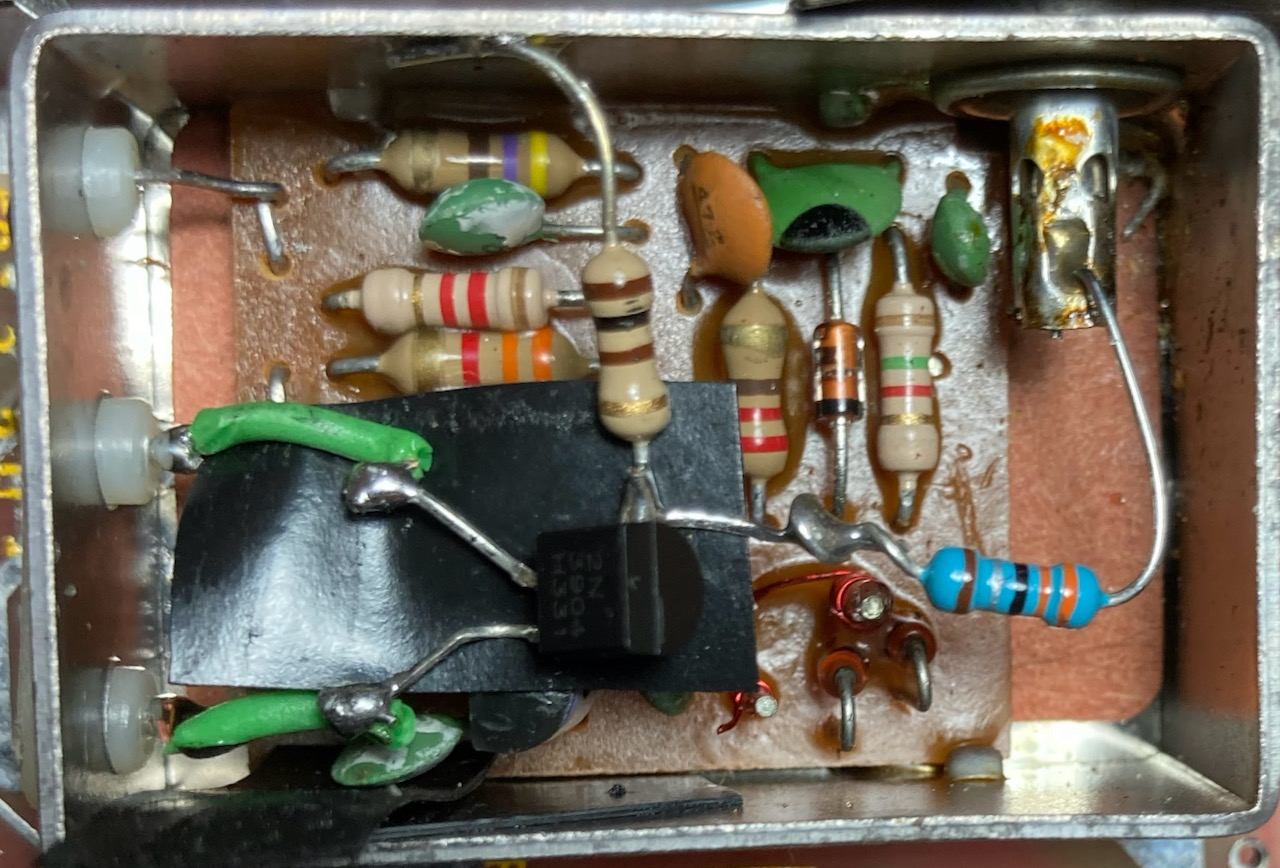
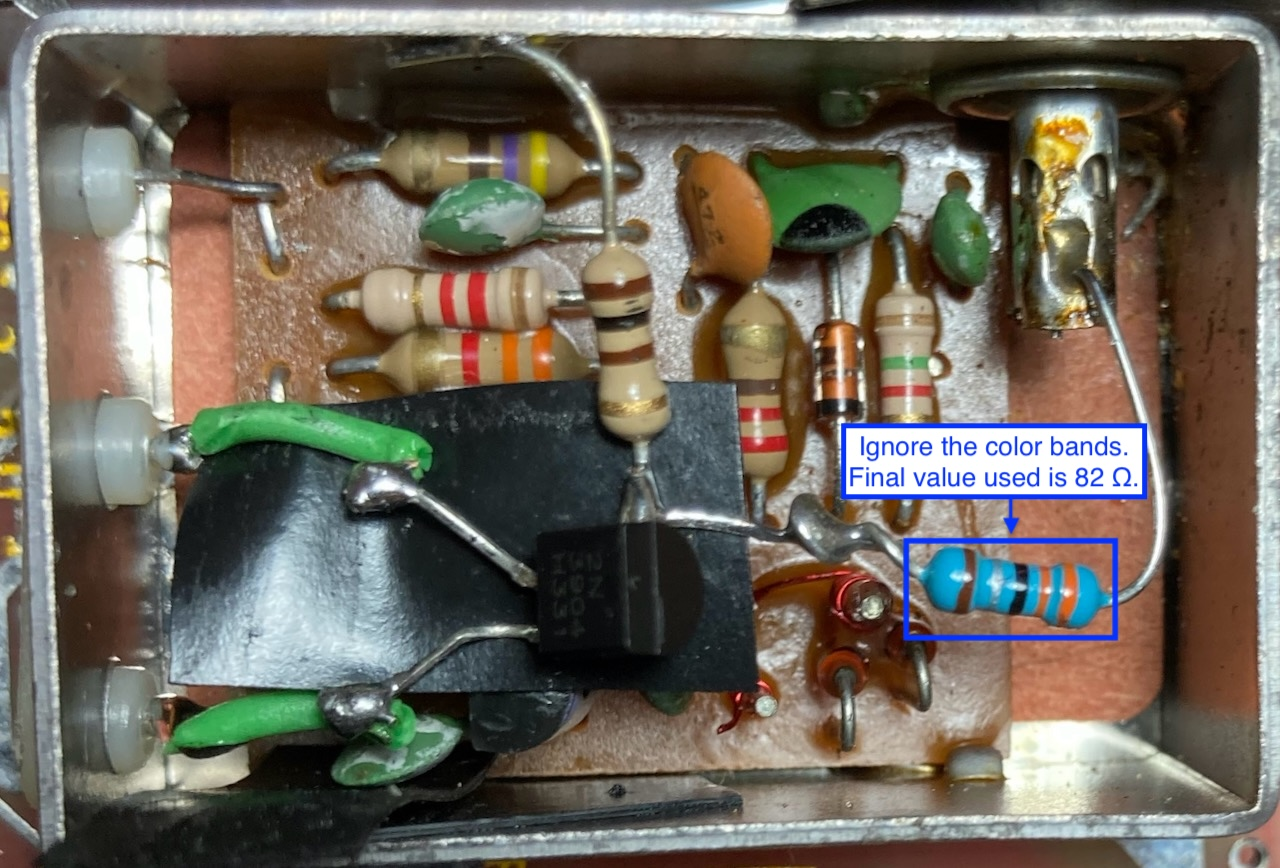
Video circuit and other updates

Changed region(s): [[0.6562, 0.4666, 0.9062, 0.7465]]

diff --git a/README.md b/README.md
@@ -2,7 +2,7 @@
 
 [![Check Markdown Links](https://github.com/Andy4495/timex-sinclair-1000/actions/workflows/check-links.yml/badge.svg)](https://github.com/Andy4495/timex-sinclair-1000/actions/workflows/check-links.yml)
 
-Notes on restoring and using a vintage Timex Sinclair 1000 / Sinclair ZX81 personal computer.
+Restoring and using a vintage Timex Sinclair 1000 personal computer. This should also generally apply to a Sinclair ZX81.
 
 ## Modifications
 
@@ -10,28 +10,42 @@ Notes on restoring and using a vintage Timex Sinclair 1000 / Sinclair ZX81 perso
 
 The keyboard cable to the PCB through connectors KB1 and KB2 had become brittle and partially disintegrated, rendering the keyboard unusable. This is a common problem with the Sinclair membrane keyboards, so much so that replacements are readily available on [eBay][4].
 
-All the remnants from the old cable need to be removed from connectors KB1 and KB2 before installing the new keyboard. Using tweezers, picks, and a magnifying lens helps to get all the bits out.
+All the remnants from the old cable need to be removed from connectors KB1 and KB2 before installing the new keyboard. Tweezers, picks, and a magnifying lens are helpful tools to get all the bits out.
 
 ### Video Output
 
-I modified the RF output video signal so that it bypasses the RF Modulator and instead outputs a composite video signal. I used the ["single transistor, 2 resistor"][3] design. The composite video signal produced is not fully compliant, but is good enough to work on my TV with a composite video input. However, my cheap composite-to-HDMI converter box has difficulty with consistently syncing to the signal.
+I modified the RF output video signal so that it bypasses the RF Modulator and instead outputs a composite video signal. I used the ["single transistor, 2 resistor"][3] design. After some experimentation, I settled on a value of 82 Ohms for the emitter-video-out resistor. The composite video signal produced with these changes works on my TV with a composite video input, a cheap [video-to-VGA][vga] converter, and an [RGBtoHDMI with Analog][rgb2hdmi] board.
 
-Circuit modifications:
+[vga]: [https://www.amazon.com/dp/B075N462CL]
+[rgb2hdmi]: https://retrohackshack.com/product/rgbtohdmi/
 
-- Although I left it in place, I think it should be possible to remove the existing circuit board inside the RF shield can
-- Outside of the shield can, unsolder the middle wire from the "USA" via and move it to the "2" via (this is the video output signal from the ULA chip) ([photo][26])
-- Inside the shield can, cut the 5V and video signal wires from the circuit board inside the can (leave enough wire to solder the transistor legs)
-- Remove the channel select switch (near the regulator)
+#### Circuit modifications
+
+- Remove the channel select switch (near the voltage regulator)
 - Solder a jumper between the two switch vias nearest the regulator to route 5V to the RF shield can (see [photo][27])
+- Outside of the RF shield can, unsolder the middle wire from the "USA" via and move it to the "2" via (this is the video output signal from the ULA chip) ([photo][26])
+- Remove the top metal piece of the RF shield can
+- Inside the shield can, cut the 5V and video signal wires from the circuit board inside the can, leaving enough wire to solder the transistor legs
 - Cut the RF signal wire connected to the RCA jack (see [photo][25])
 - Disconnect the two parts behind the RCA socket (see [photo][28])
 - Install the transistor/resistor modification. I used a general-purpose [2N3904 transistor][36]:
   - Collector pin to 5V wire coming into shield can
   - Solder two resistors to the emitter pin
-    - 18 Ohm resistor between the emitter and the RCA output connector
+    - 82 Ohm resistor between the emitter and the RCA output connector
     - 100 Ohm resistor between the emitter and to ground (RF shield can)
   - Base pin to video input wire
 - Post-rework [photo][29]; note the electrical tape under the transistor and on the side of the shield can to insulate against possible shorts
+
+#### Video Quality
+
+With the above modifications and resistor values, the video output signal measured about 1.0 V max with the video-to-VGA converter (75 Ohm load) and 1.5 V max with the RGBtoHDMI (500+ Ohm load).
+
+The [RGBtoHDMI][41] gave a very sharp image with the `Sinclair/ZX81 Composite` profile, after running `Auto Calibrate Video Sampling` and then manually updating two `Sampling Menu` settings:
+
+- `DAC A Y Hi`: 058 (0.75 V)
+  - Values from 0.66 to 0.84 V were stable, so I chose the middle
+- `DAC F Y V Sync`: 004 (0.05 V)
+  - Value 003 (0.04 V) was also stable
 
 ### Regulator
 
@@ -69,7 +83,7 @@ The TS1000 comes with a 2K RAM chip. I replaced this with a 62256 32K chip, of w
 
 I used [this procedure][19] by Tynemouth Software, but soldered the jumper wires to the socket instead of the new RAM chip. This leaves the RAM chip intact. Once again, I used some electrical tape to insulate the PCB traces from the modifications.
 
-#### Signal Mapping to Standard RAM
+#### Details on How the RAM Upgrade Works
 
 The RAM in my TS1000 was a Toshiba part [TMM2016P-1][40] (24-pin, 2Kx8, 100ns). I replaced it with a 62256 RAM (28-pin, 32Kx8, 100ns). Fortunately, the TS1000 PCB footprint has space for a 28-pin chip.
 
@@ -209,10 +223,11 @@ There are multiple versions of the Timex Sinclair ROM. The Timex Sinclair 1000 a
 - [Replacement keyboard][4] available on eBay
 - Procedures to modify video output to composite video instead of RF output
   - [Single transistor method][3], with photos (this is the method that I used successfully)
+- RGBtoHDMI video converter [wiki][41]
 - [ZX81 BASIC programs and web emulator][5]
 - [Program][6] to converts a text file containing a ZX81 program into a ".p" file suitable for an emulator (this should also work to program a ROM).
   - [Updated version][7] to collapse display file to fit into 1K RAM
-- Convert ZX81 program text to a WAV file for loading into machine without cassette: [link][8] or [link][9]
+- Convert ZX81 program text to a WAV file for loading into machine without cassette: [tapeutils][8] or [zx81putil][9]
 - TS1000 schematic from article in VISTA newsletter [Volume 3, Number 5][18]
   - Corrected [power input/regulator section][35]
 - "[Reversible][19]" RAM upgrade procedure
@@ -278,6 +293,7 @@ All hardware modifications mentioned here are for informational purposes only, a
 [38]: https://myoldcomputer.nl/technical-info/datasheets/integrated-chip-pinout-and-datasheets/memory/2364-2/
 [39]: https://myoldcomputer.nl/Files/Datasheet/2364-Commodore.pdf
 [40]: https://tvsat.com.pl/PDF/M/MCM2018_mot.pdf
+[41]: https://github.com/hoglet67/RGBtoHDMI/wiki
 [100]: https://choosealicense.com/licenses/mit/
 [101]: ./LICENSE.txt
 [//]: # ([200]: https://github.com/Andy4495/timex-sinclair-1000)
